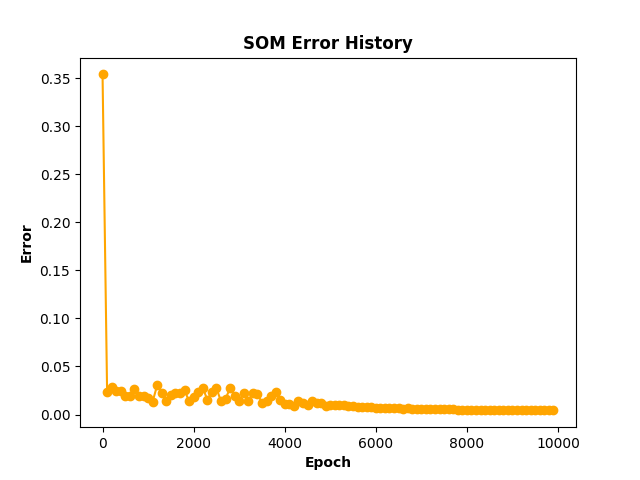
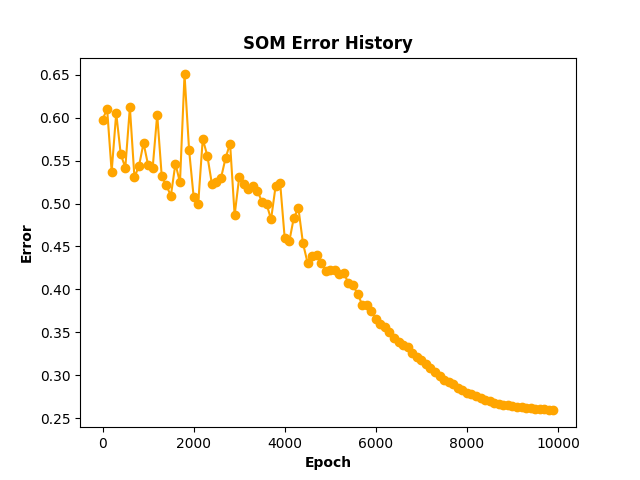
min max normalize

diff --git a/main.py b/main.py
@@ -7,12 +7,24 @@ FORMAT = '%(filename)s line:%(lineno)d\t%(message)s'
 logging.basicConfig(level=logging.INFO,format=FORMAT)
 print = logging.info
 
-def feature_normalizatoion(X):
+def feature_normalizatoion(X):    
+    count_featrue = X.shape[-1]
+    f_maxs = []
+    f_mins = []
+
+    for i in range(count_featrue):
+        f_max = np.max(X[:,[i]])
+        f_min = np.min(X[:,[i]])
+        f_maxs.append(f_max)
+        f_mins.append(f_min)
+
     for i in range(len(X)):
-        x = X[i]
-        x_sqare_sum_root = np.sum(x**2)**0.5
-        x = [f/x_sqare_sum_root for f in x]
-        X[i] = x
+        x_normalizatoion = np.array([0.0]*13)
+        for j in range(len(X[i])):
+            f_max = f_maxs[j]
+            f_min = f_mins[j]
+            x_normalizatoion[j] = (X[i][j] - f_min)/(f_max - f_min)
+        X[i] = x_normalizatoion
     return X
 
 def make_XY(data):
